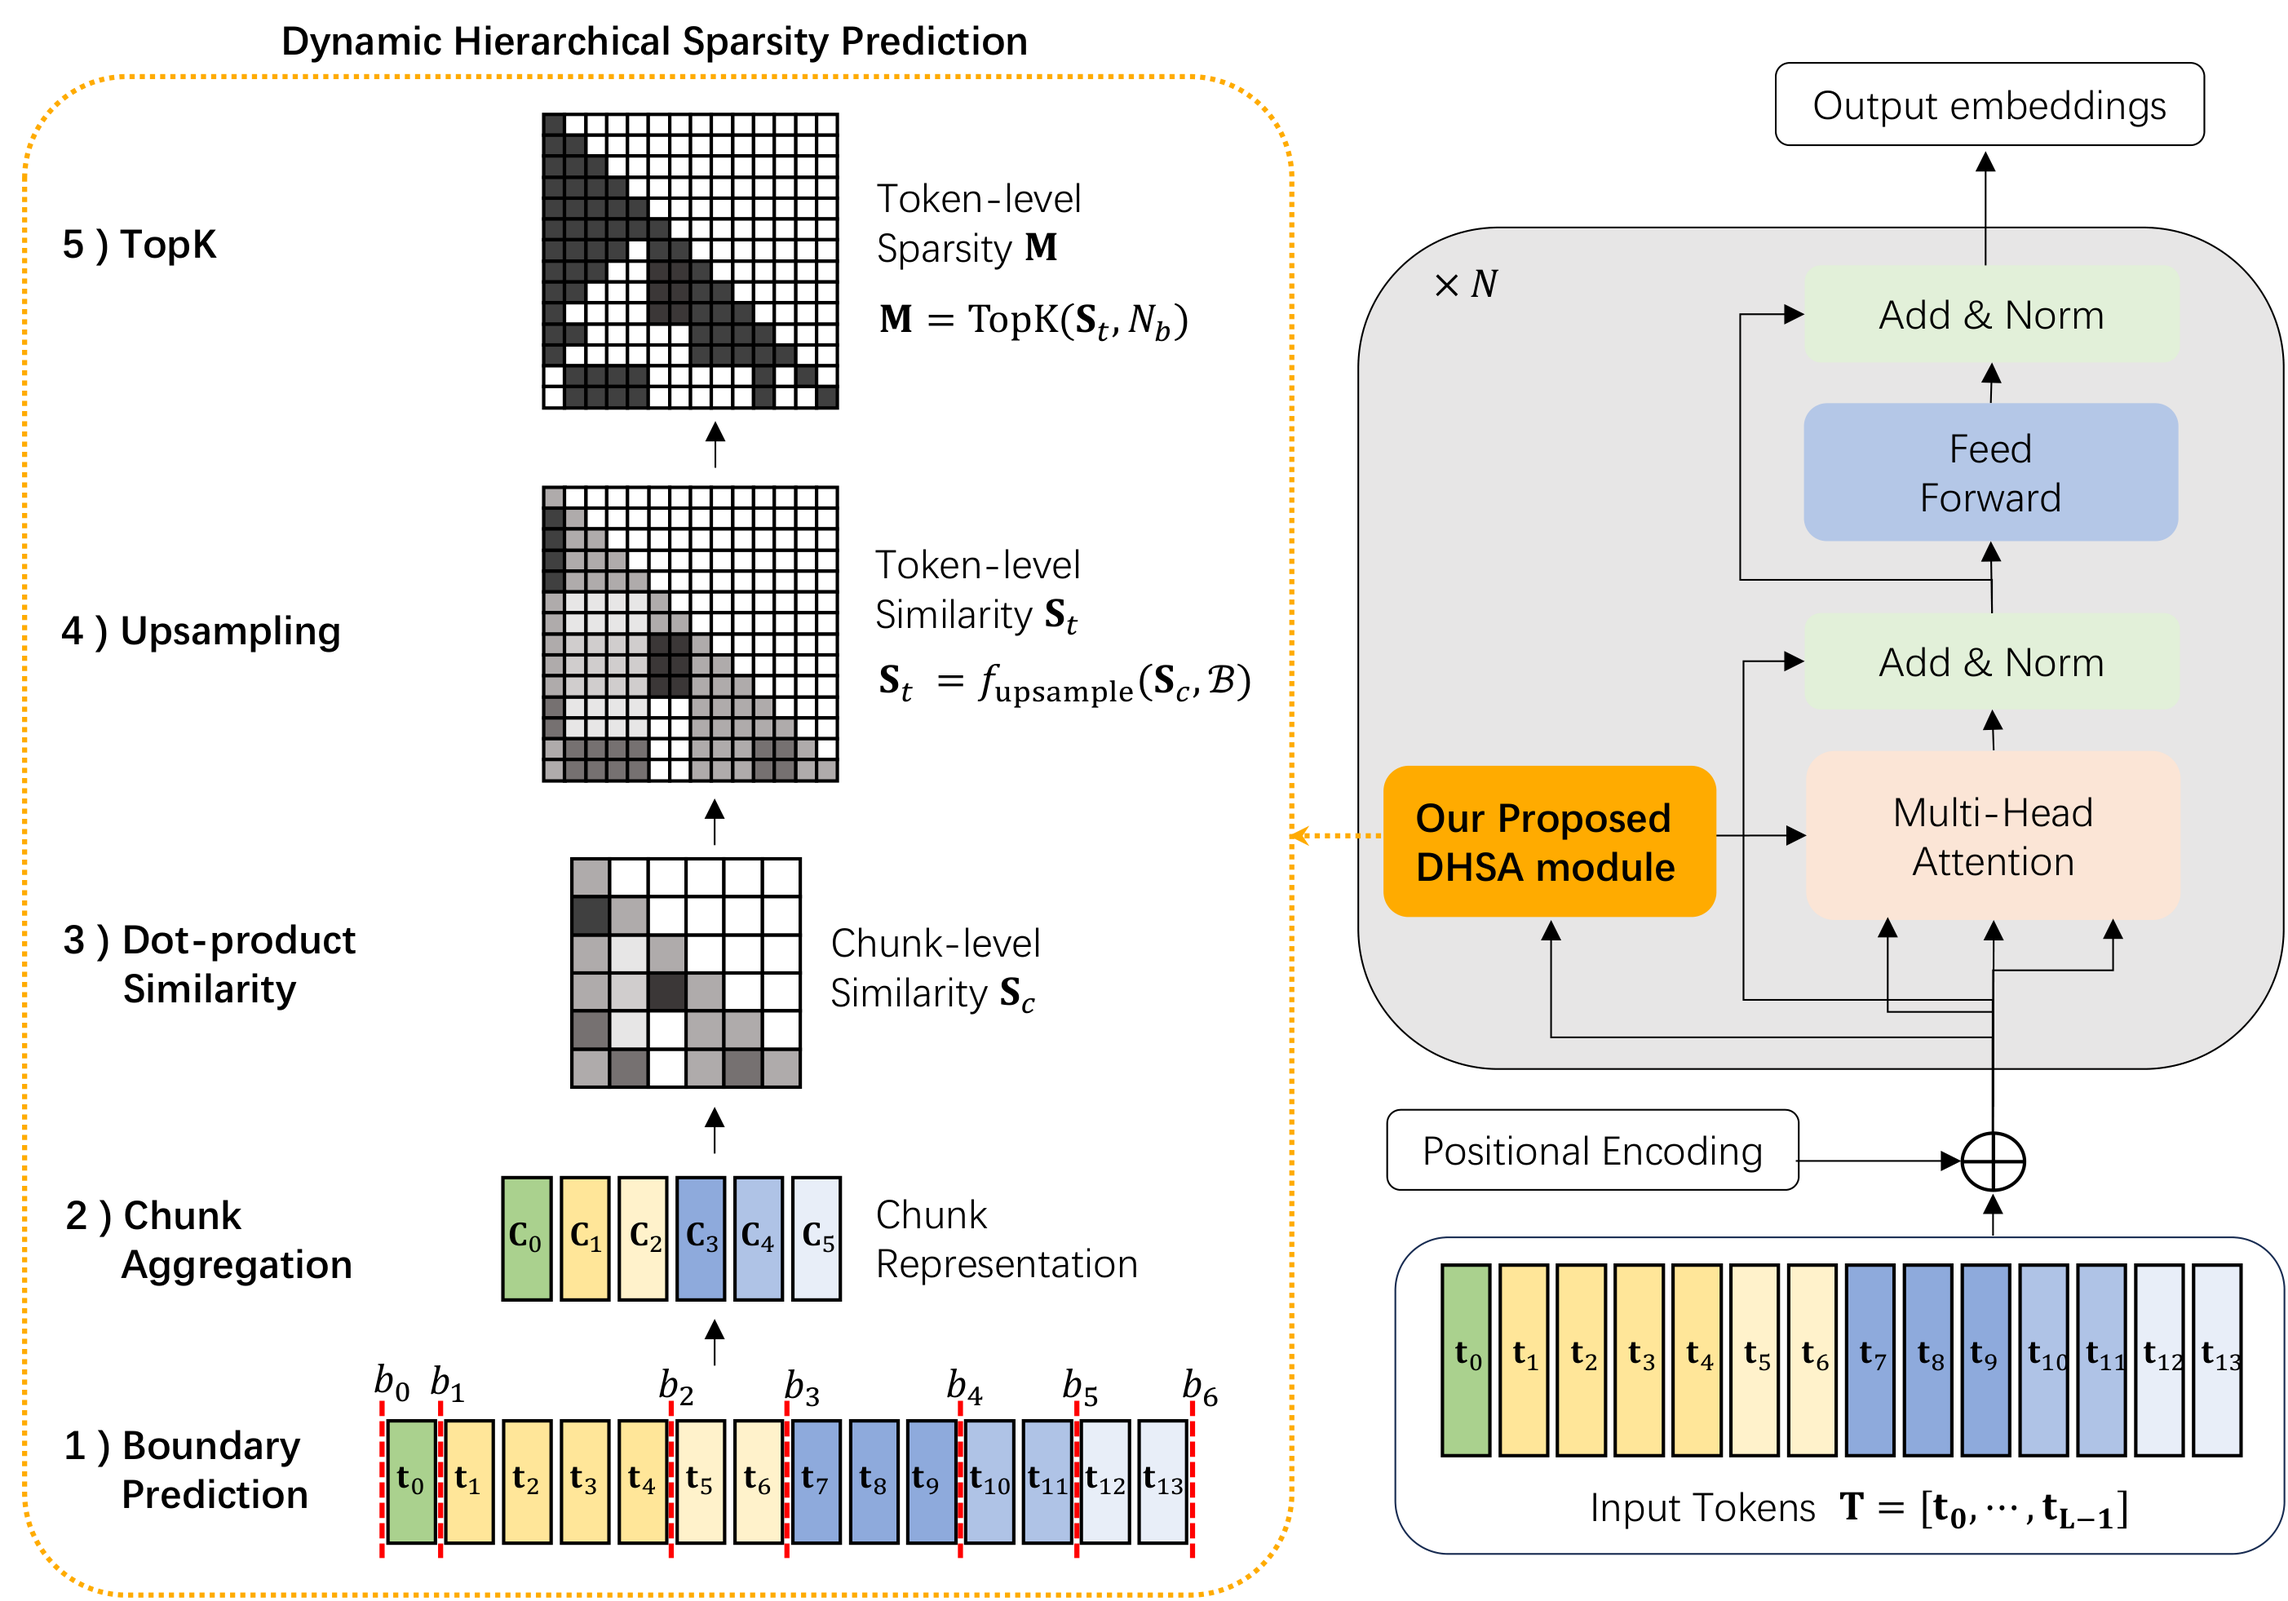
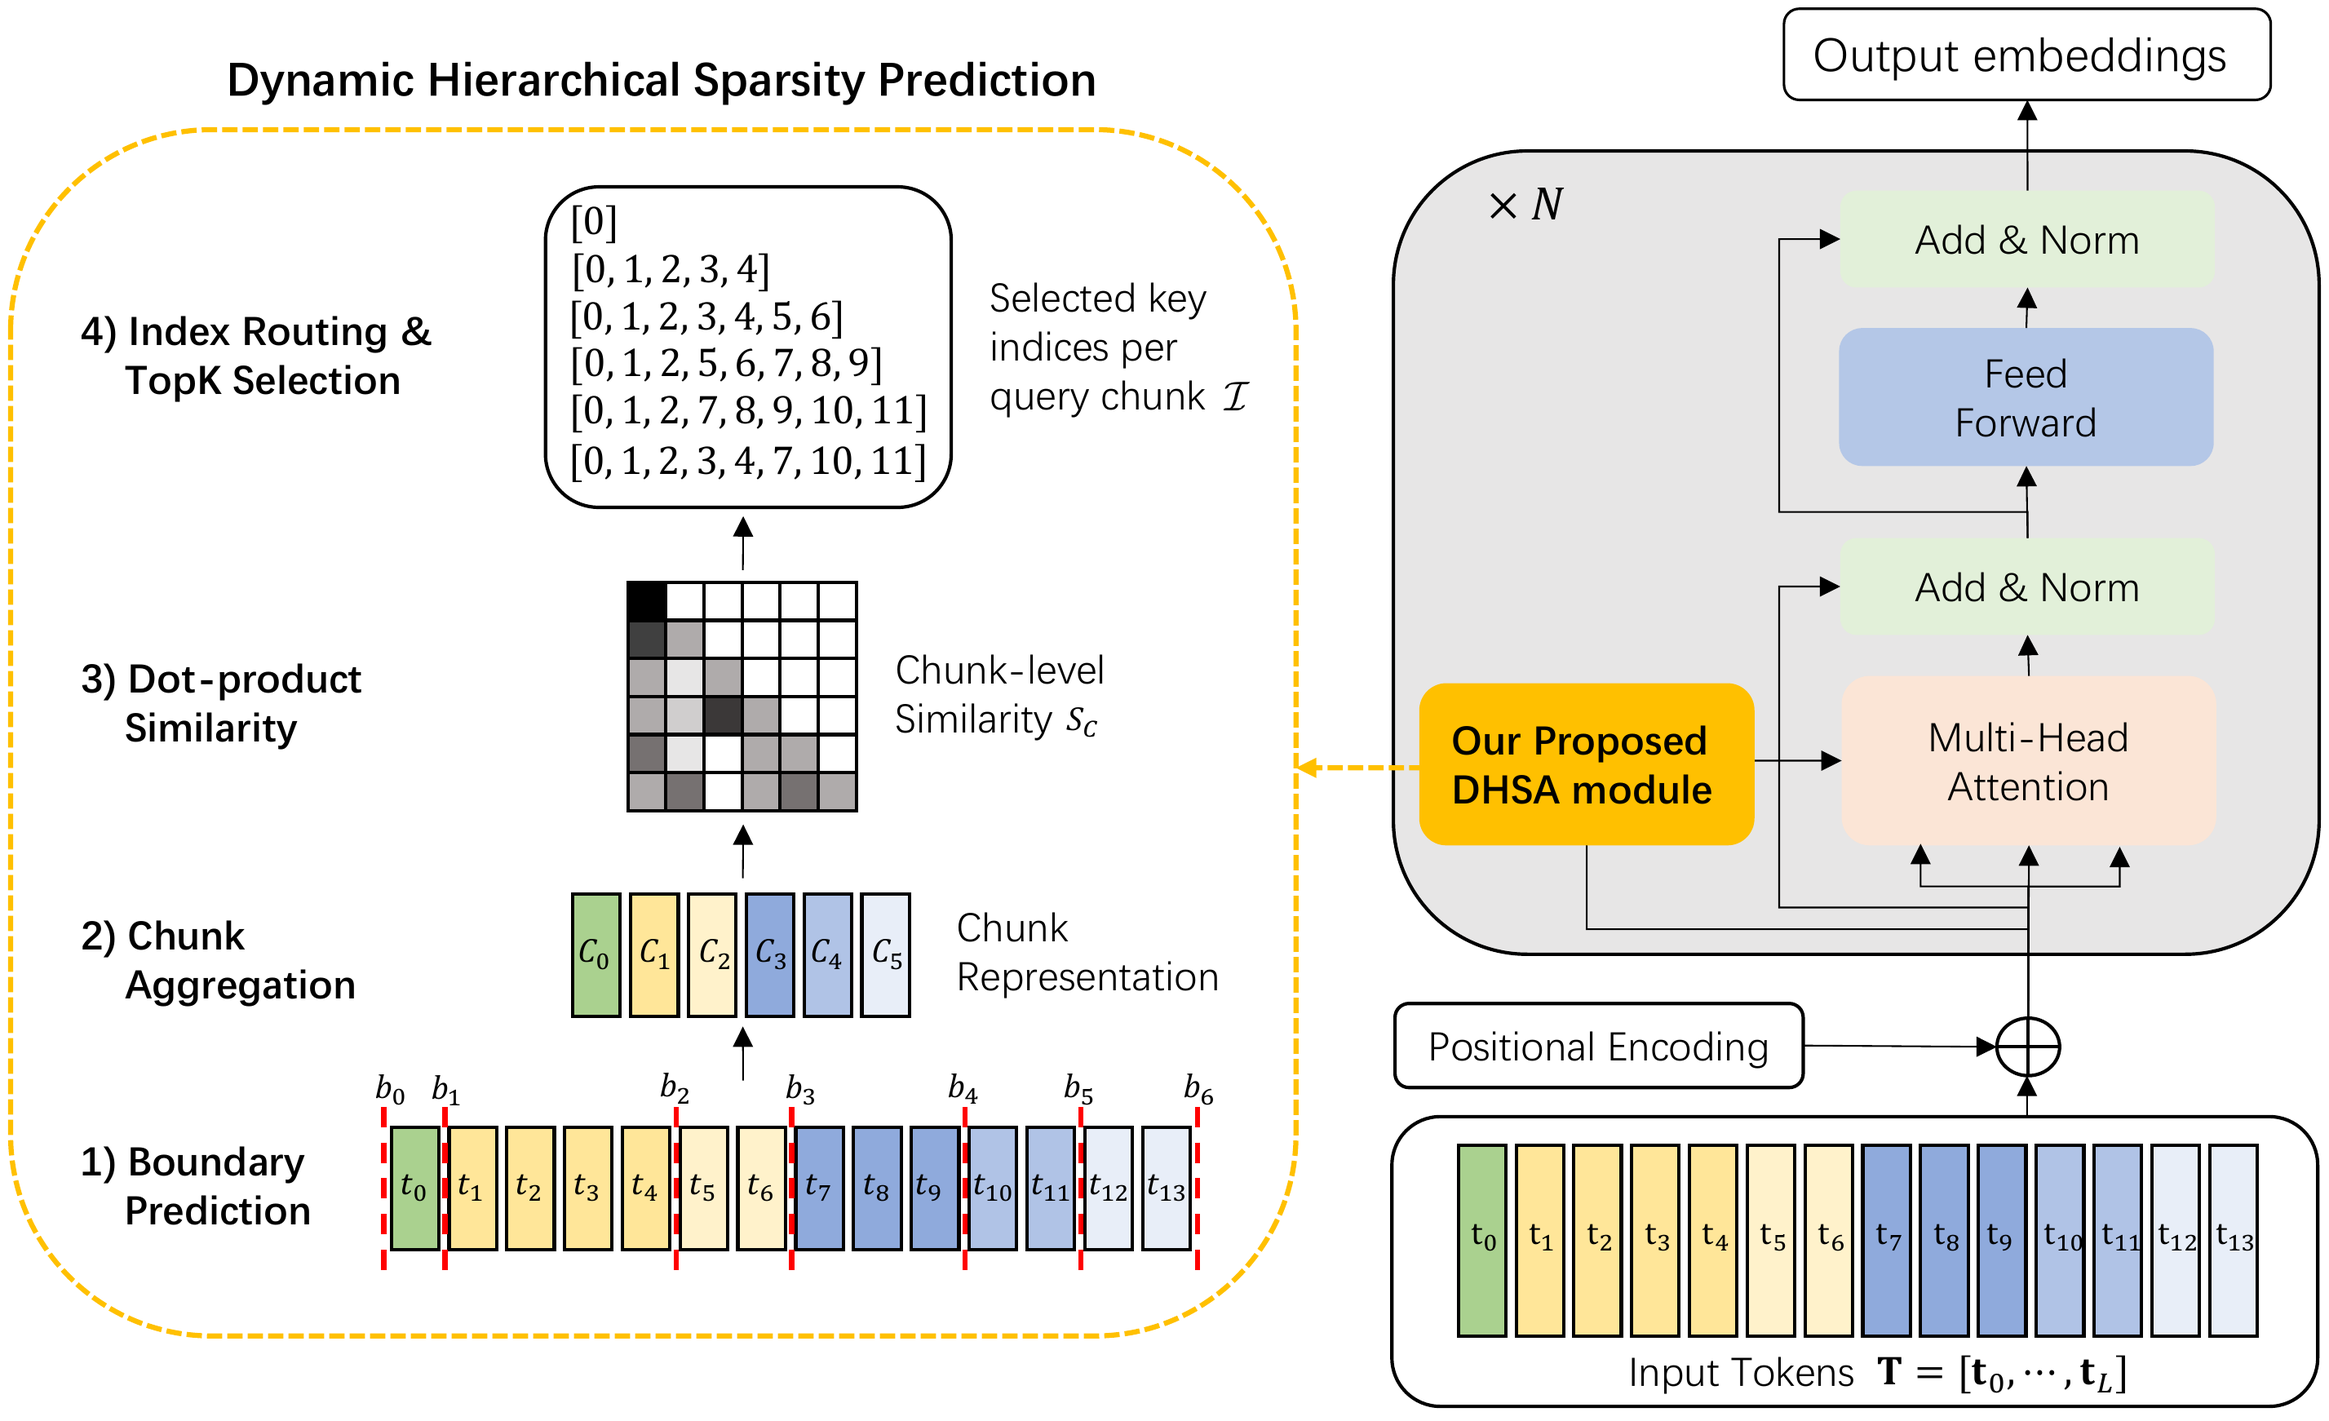
Update homepage

diff --git a/_pages/about.md b/_pages/about.md
@@ -17,16 +17,30 @@ redirect_from:
 
 <span class='anchor' id='about-me'></span>
 
-I am a final-year Ph.D. student in Machine Learning at the Georgia Institute of Technology, advised by [Prof. Faramarz Fekri](https://fekri.ece.gatech.edu/).
+I am an Applied Scientist at AWS, working on agentic reinforcement learning. I received my Ph.D. in Machine Learning from the Georgia Institute of Technology.
 
-My research focuses on improving long-horizon reasoning and decision-making in large language models. I study post-training and system design for LLM agents, with a focus on deliberate reasoning and planning, as well as scalable agent systems that support adaptive retrieval and long-context interaction.
+My research focuses on improving long-horizon reasoning and decision-making in large language models. I study post-training and system design for LLM agents, with an emphasis on deliberate reasoning and planning, adaptive retrieval, long-context modeling, and scalable agentic systems.
 
 
-# 🚀 Featured Projects
+# Featured Projects
 
 ### Long-Horizon LLM Agents
 
-<div class='paper-box'><div class='paper-box-image'><div><div class="badge">ICLR 2026 @ SPOT</div><img src='images/DeepControl.png' alt="sym" width="100%"></div></div>
+<div class='paper-box'><div class='paper-box-image'><div><div class="badge">Preprint 2026</div><img src='images/.png' alt="sym" width="100%"></div></div>
+<div class='paper-box-text' markdown="1">
+
+[DIVE: Unlocking Self-Improvement in Frozen Language Models Through Diversity-Driven Skill Evolution]() \\
+**Siheng Xiong**, Ali Payani, Oguzhan Gungordu, Faramarz Fekri
+
+[**Project**]()
+
+DIVE enables frozen LLMs to improve from experience without parameter updates by evolving reusable natural-language skills. By maintaining diverse skill populations and selecting complementary skills, DIVE achieves strong and transferable self-improvement across reasoning tasks and model families.
+
+</div>
+</div>
+
+
+<div class='paper-box'><div class='paper-box-image'><div><div class="badge">Preprint 2026</div><img src='images/DeepControl.png' alt="sym" width="100%"></div></div>
 <div class='paper-box-text' markdown="1">
 
 [Adaptive Information Control for Search-Augmented LLM Reasoning](https://arxiv.org/pdf/2602.01672) \\
@@ -116,9 +130,9 @@ Compressor-Retriever is a model-agnostic architecture for lifelong context manag
 
 
 
-# 📝 Selected Publications
+# Selected Publications
 
-## 📝 Conference Papers
+## Conference Papers
 - ``ICML 2026`` <span style="color:red">(Spotlight)</span> [Long-Context Modeling with Dynamic Hierarchical Sparse Attention for Memory-Constrained LLM Inference](https://arxiv.org/pdf/2510.24606) **Siheng Xiong**, Joe Zou, Faramarz Fekri, Yae Jee Cho [[Repo]](https://github.com/xiongsiheng/DHSA)
 - ``ICML 2026`` [Planning through World Model for Automated Heuristic Design via Self-Evolving LLMs](https://arxiv.org/pdf/2601.20539) Oguzhan Gungordu, **Siheng Xiong**, Faramarz Fekri [[Repo]](https://github.com/oguzhangungordu/PathWise)
 - ``ICLR 2026`` [Enhancing Language Model Reasoning with Structured Multi-Level Modeling](https://openreview.net/pdf?id=PlkzZhqBCd) **Siheng Xiong**, Ali Payani, Faramarz Fekri  [[Repo]](https://github.com/xiongsiheng/MLR)
@@ -132,37 +146,36 @@ Compressor-Retriever is a model-agnostic architecture for lifelong context manag
 - ``AAAI 2024`` <span style="color:red">(Oral)</span> [TEILP: Time prediction over knowledge graphs via logical reasoning](https://ojs.aaai.org/index.php/AAAI/article/view/29544) **Siheng Xiong**, Yuan Yang, Ali Payani, James C Kerce, Faramarz Fekri [[Repo]](https://github.com/xiongsiheng/TEILP)
 - ``ICLR 2023`` [TILP: Differentiable learning of temporal logical rules on knowledge graphs](https://openreview.net/pdf?id=_X12NmQKvX) **Siheng Xiong**, Yuan Yang, Faramarz Fekri, James Clayton Kerce [[Repo]](https://github.com/xiongsiheng/TILP)
 
-## 📝 Workshop Papers
+## Workshop Papers
 - ``ICLR 2026 @ SPOT`` [Scaling Search-Augmented Reasoning Agents via Adaptive Information Control](https://openreview.net/pdf?id=nGEWOtne5c) **Siheng Xiong**, Oguzhan Gungordu, James C. Kerce, Faramarz Fekri [[Repo]](https://github.com/xiongsiheng/DeepControl)
 - ``NeurIPS 2025 @ ER`` [Long-Context Modeling with Dynamic Hierarchical Sparse Attention for On-Device LLMs](https://openreview.net/pdf?id=pvrHkHRVx3) **Siheng Xiong**, Joe Zou, Faramarz Fekri, Yae Jee Cho [[Repo]](https://github.com/xiongsiheng/DHSA)
 
-## 📝 Preprints
+## Preprints
 - ``Preprint 2026`` [Adaptive Information Control for Search-Augmented LLM Reasoning](https://arxiv.org/pdf/2602.01672) **Siheng Xiong**, Oguzhan Gungordu, James C. Kerce, Faramarz Fekri [[Repo]](https://github.com/xiongsiheng/DeepControl)
 - ``Preprint 2025`` [Enhancing Long Chain-of-Thought Reasoning with Multi-Path Planning with Aggregation](https://arxiv.org/pdf/2510.11620) **Siheng Xiong**, Ali Payani, Faramarz Fekri  [[Repo]](https://github.com/xiongsiheng/MPPA)
 - ``Preprint 2024`` [The Compressor-Retriever Architecture for Language Model OS](https://arxiv.org/pdf/2409.01495) Yuan Yang, **Siheng Xiong**, Ehsan Shareghi, Faramarz Fekri [[Repo]](https://github.com/gblackout/LM-OS)
 
 
+# Experience
+- *2026.07 - Present*, Applied Scientist, Amazon Web Services, Santa Clara, California
+- *2021.09 - 2026.06*, Graduate Research Assistant, Georgia Institute of Technology, Atlanta, Georgia
+- *2025.05 - 2025.08*, Applied Research Intern, Google, Sunnyvale, California
+- *2023.09 - 2024.04*, Research Intern, Cisco Research, San Jose, California
+- *2020.05 - 2021.01*, Research Assistant, Rutgers University (Mentor: [Dimitris N. Metaxas](https://scholar.google.com/citations?user=a7VNhCIAAAAJ)), New Brunswick, New Jersey
 
-# 🎖 Honors and Awards
-- Georgia Tech CSIP Outstanding Research Award
-- China National Scholarship (Top 1% Rank)
-- China UHV Scholarship (Top 1% Rank)
-- Kaggle Santander Value Prediction Challenge, Silver Medal (Top 3.4% Rank)
 
-
-# 📖 Education
-- Georgia Institute of Technology, Ph.D. in Machine Learning
+# Education
+- Georgia Institute of Technology, Ph.D. in Machine Learning (Advisor: [Faramarz Fekri](https://fekri.ece.gatech.edu/))
 - Shanghai Jiao Tong University, M.S. in Electrical and Computer Engineering
 - Xi'an Jiaotong University, B.S. in Electrical and Computer Engineering
 
 
-# 💻 Experience
-- *2025.05 - 2025.08*, Applied Research Intern, Google, Sunnyvale, California
-- *2023.09 - 2024.04*, Research Intern, Cisco Research, San Jose, California
-- *2020.05 - 2021.01*, Research Student Assistant, Rutgers University (Mentor: [Dimitris N. Metaxas](https://scholar.google.com/citations?user=a7VNhCIAAAAJ)), New Brunswick, New Jersey
+# Honors and Awards
+- Georgia Tech CSIP Outstanding Research Award
+- China National Scholarship (Top 1% Rank)
 
 
-# 📄 Services
-- Program Committee for *AAAI*
-- Conference Reviewer for *NeurIPS, ICML (Gold Reviewer), ICLR, ACL, EMNLP, NAACL, EACL, KDD, AAAI, ECML*
+# Services
+- Program Committee for *AAAI, CIKM*
+- Conference Reviewer for *NeurIPS, ICML (Gold Reviewer), ICLR, ACL, EMNLP, NAACL, EACL, KDD, AAAI, CIKM, ECML*
 - Journal Reviewer for *TMLR*, *ACM TIST*
